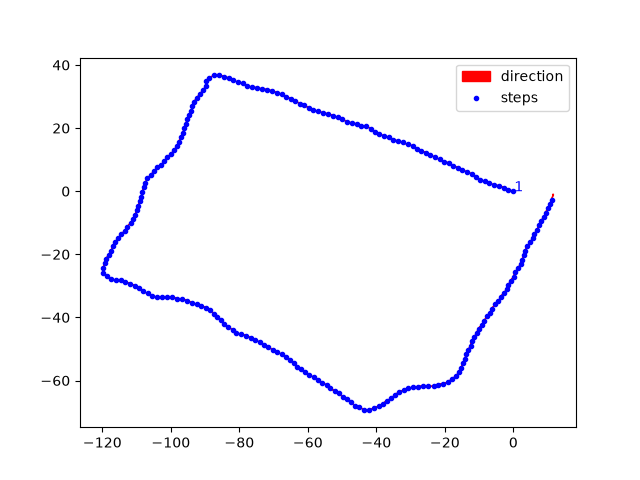
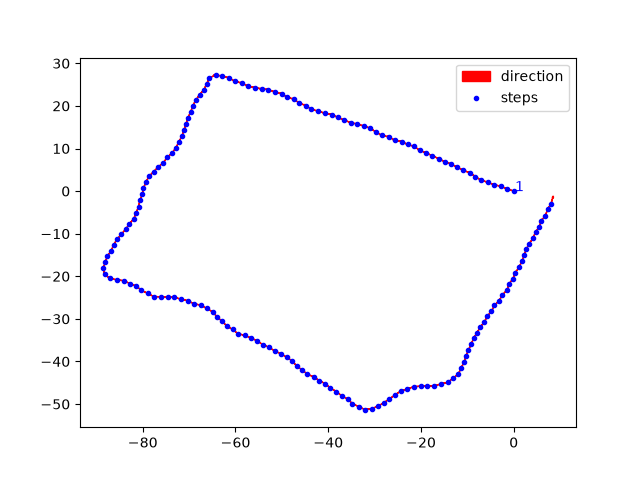
Incremental implementation of Peak Acceleration Threshold and Adaptive Jerk Pace Threshold.

diff --git a/src/adaptiveJerkPaceThreshold.py b/src/adaptiveJerkPaceThreshold.py
@@ -3,71 +3,55 @@ import numpy as np
 GRAVITY = 9.81
 
 
-def adaptive_step_jerk_threshold(data, timestamps, zero=GRAVITY):
-    last_state = None
-    current_state = None
-    last_peak = None
-    last_trough = None
-
-    peak_troughs = []
-
-    jerk_mean = 1
-    alpha = 0.125
-
-    jerk_dev = 0.125
-    beta = 0.25
-
-    # Graphing Purpose Array
-    # 0 - timestamp
-    # 1 - Jerk Mean
-    # 2 - Jerk Standard Deviation
-    meta = []
-
-    for i, datum in enumerate(data):
-
-        if datum < zero and last_state != None:
+class AdaptiveJerkPaceThreshold:
+    def __init__(self, zero = GRAVITY):
+        self.zero = zero
+        self.last_state = None
+        self.last_trough = None
+        self.last_peak = None
+        self.peak_troughs = [] # accepted troughs
+        self.meta = []
+        self.jerk_mean = 1
+        self.alpha = 0.125
+        self.jerk_dev = 0.125
+        self.beta = 0.25
+    def detect(self, timestamp, datum):
+        accept = False
+        current_state = None
+        if datum < self.zero:
             current_state = 'trough'
-            if last_trough == None or datum < last_trough["val"]:
-                last_trough = {
-                    "ts": timestamps[i],
-                    "val": data[i],
-                    "min_max": "min"
-                }
-        elif datum > zero:
+            if self.last_trough is None or datum < self.last_trough["val"]:
+                self.last_trough = {"val": datum, "ts": timestamp, "min_max": "min"}
+        elif datum >= self.zero:
             current_state = 'peak'
-            if last_peak == None or datum > last_peak["val"]:
-                last_peak = {
-                    "ts": timestamps[i],
-                    "val": data[i],
-                    "min_max": "max"
-                }
+            if self.last_peak is None or datum > self.last_peak["val"]:
+                self.last_peak = {"val": datum, "ts": timestamp, "min_max": "max"}
 
-        if current_state != last_state:
-            # Zero Crossing
-            # When coming out of trough assess the "Dip"
-            if last_state == 'trough':
+        # a crossing has been detected!!
+        if current_state != self.last_state:
+            # if we go from trough to peak
+            if self.last_state == 'trough':
+                if self.last_peak:
+                    jerk = self.last_peak['val'] - self.last_trough['val'] # look at the difference
 
-                if last_peak:
+                    # if the difference is large enough then record the trough
+                    if jerk > self.jerk_mean - 4 * self.jerk_dev:
+                        self.jerk_mean = jerk * self.alpha + self.jerk_mean * (1- self.alpha)
+                        self.jerk_dev = abs(jerk) * self.beta + jerk * (1 - self.beta)
 
-                    jerk = last_peak['val'] - last_trough['val']
+                        self.meta.append([timestamp, self.jerk_mean, self.jerk_dev])
+                        self.peak_troughs.append(self.last_trough)
+                        self.last_trough = None
+                        accept = True
+            # if we go from peak to trough
+            elif self.last_state == 'peak':
+                self.last_peak = None
+        self.last_state = current_state
 
-                    if jerk > jerk_mean - 4 * jerk_dev:
-                        jerk_dev = abs(jerk_mean - jerk) * beta + jerk_dev * (1 - beta)
-                        jerk_mean = jerk * alpha + jerk_mean * (1 - alpha)
+        return accept
+def adaptive_step_jerk_threshold(data, timestamps, zero=GRAVITY):
+    asjt = AdaptiveJerkPaceThreshold(zero)
+    for timestamp, datum in zip(timestamps, data):
+        accept = asjt.detect(timestamp, datum)
 
-                        peak_troughs.append(last_trough)
-
-                        meta.append([
-                            timestamps[i],
-                            jerk_mean,
-                            jerk_dev
-                        ])
-
-                last_trough = None
-            elif last_state == 'peak':
-                # peak_troughs.append(last_peak)
-                last_peak = None
-
-        last_state = current_state
-
-    return np.array(peak_troughs), np.array(meta)
+    return asjt.peak_troughs, asjt.meta

diff --git a/src/peakAccelThreshold.py b/src/peakAccelThreshold.py
@@ -1,28 +1,38 @@
-'''
+"""
 Computing number of steps using threshold for detecting peaks
 unsatisfactory approach: static threshold is not a reliable method for counting steps of individuals with different walking styles
-'''
+"""
 
 import numpy as np
 
-def peak_accel_threshold(data, timestamps, threshold):
-    last_state = 'below' # below or above
-    crest_troughs = 0
-    crossings =[]
+class PeakAccelerationThreshold:
+    def __init__(self, threshold):
+        self.last_state = None
+        self.crest_troughs = 0
+        self.crossings = []
+        self.threshold = threshold
 
-    for i, datum in enumerate(data):
-
-        current_state = last_state
-        if datum < threshold:
+    def detect(self, timestamp, datum):
+        current_state = self.last_state
+        if datum < self.threshold:
             current_state = 'below'
-        elif datum > threshold:
+        elif datum > self.threshold:
             current_state = 'above'
+        if current_state is not self.last_state:
+            self.crossings.append([timestamp, current_state])
+            self.crest_troughs += 1
+            self.last_state = current_state
+            return True
 
-        if current_state is not last_state: #state changed, accrossing the threshold
-            crossing = [timestamps[i], threshold]
-            crossings.append(crossing)
-            crest_troughs += 1
+        self.last_state = current_state
+        return False
 
-        last_state = current_state
 
-    return np.array(crossings)
+def peak_accel_threshold(data, timestamps, threshold):
+    pat = PeakAccelerationThreshold(threshold)
+
+    for timestamp, datum in zip(timestamps, data):
+
+        crossed = pat.detect(timestamp, datum)
+
+    return np.array(pat.crossings)
